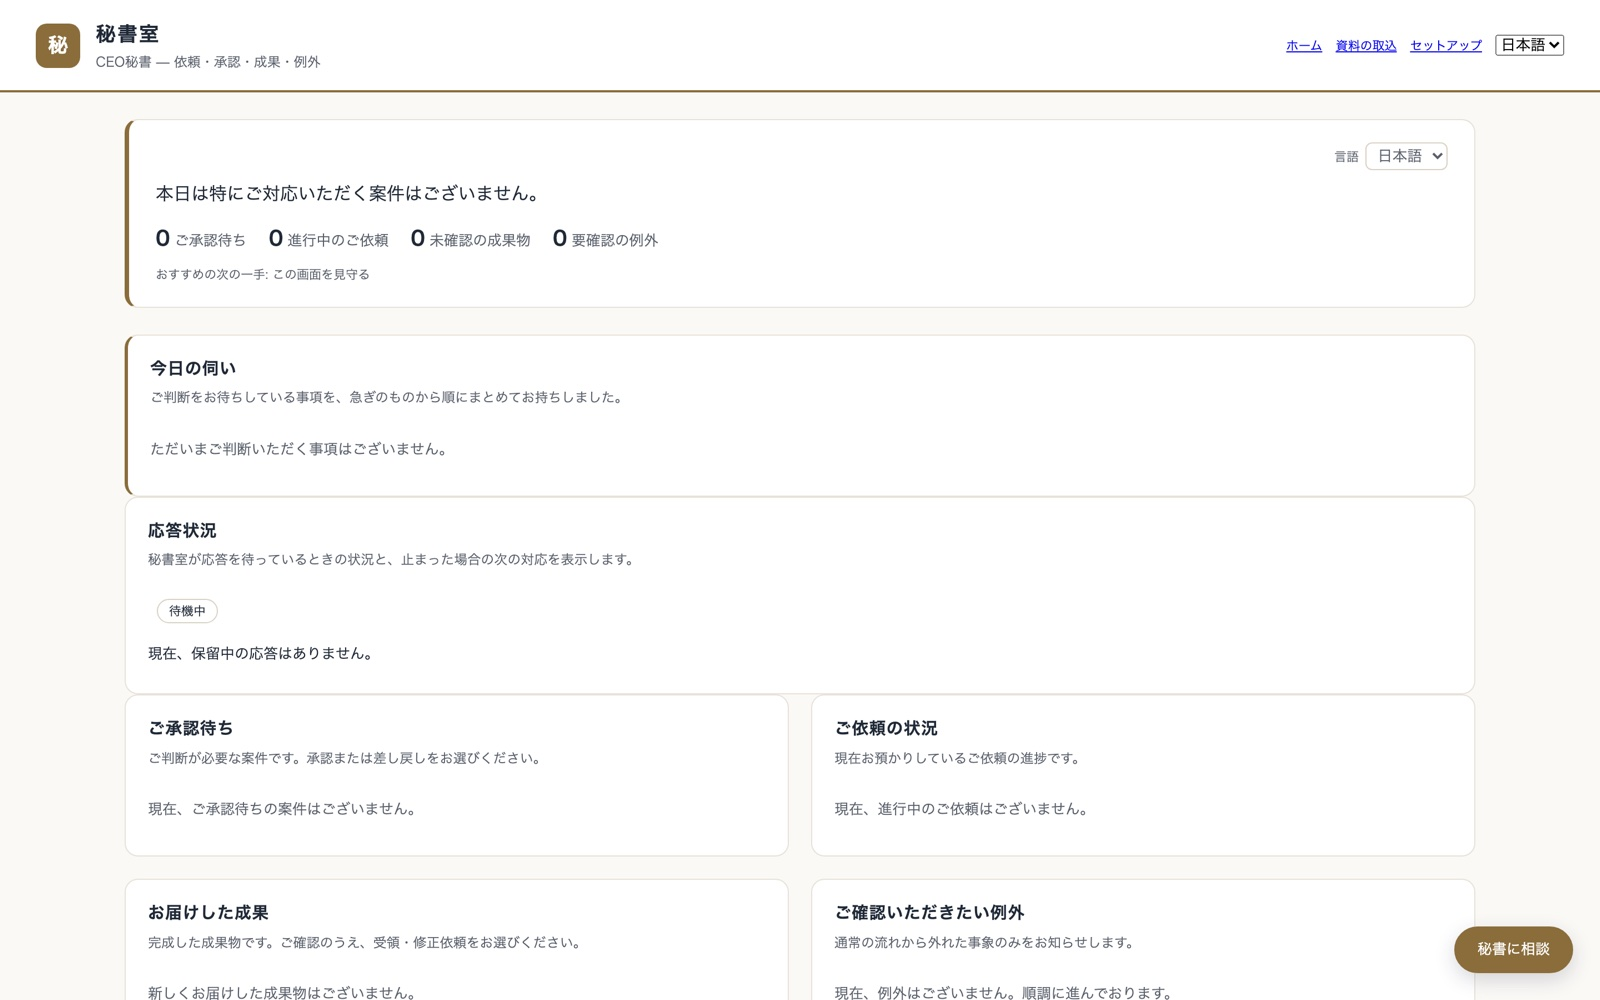
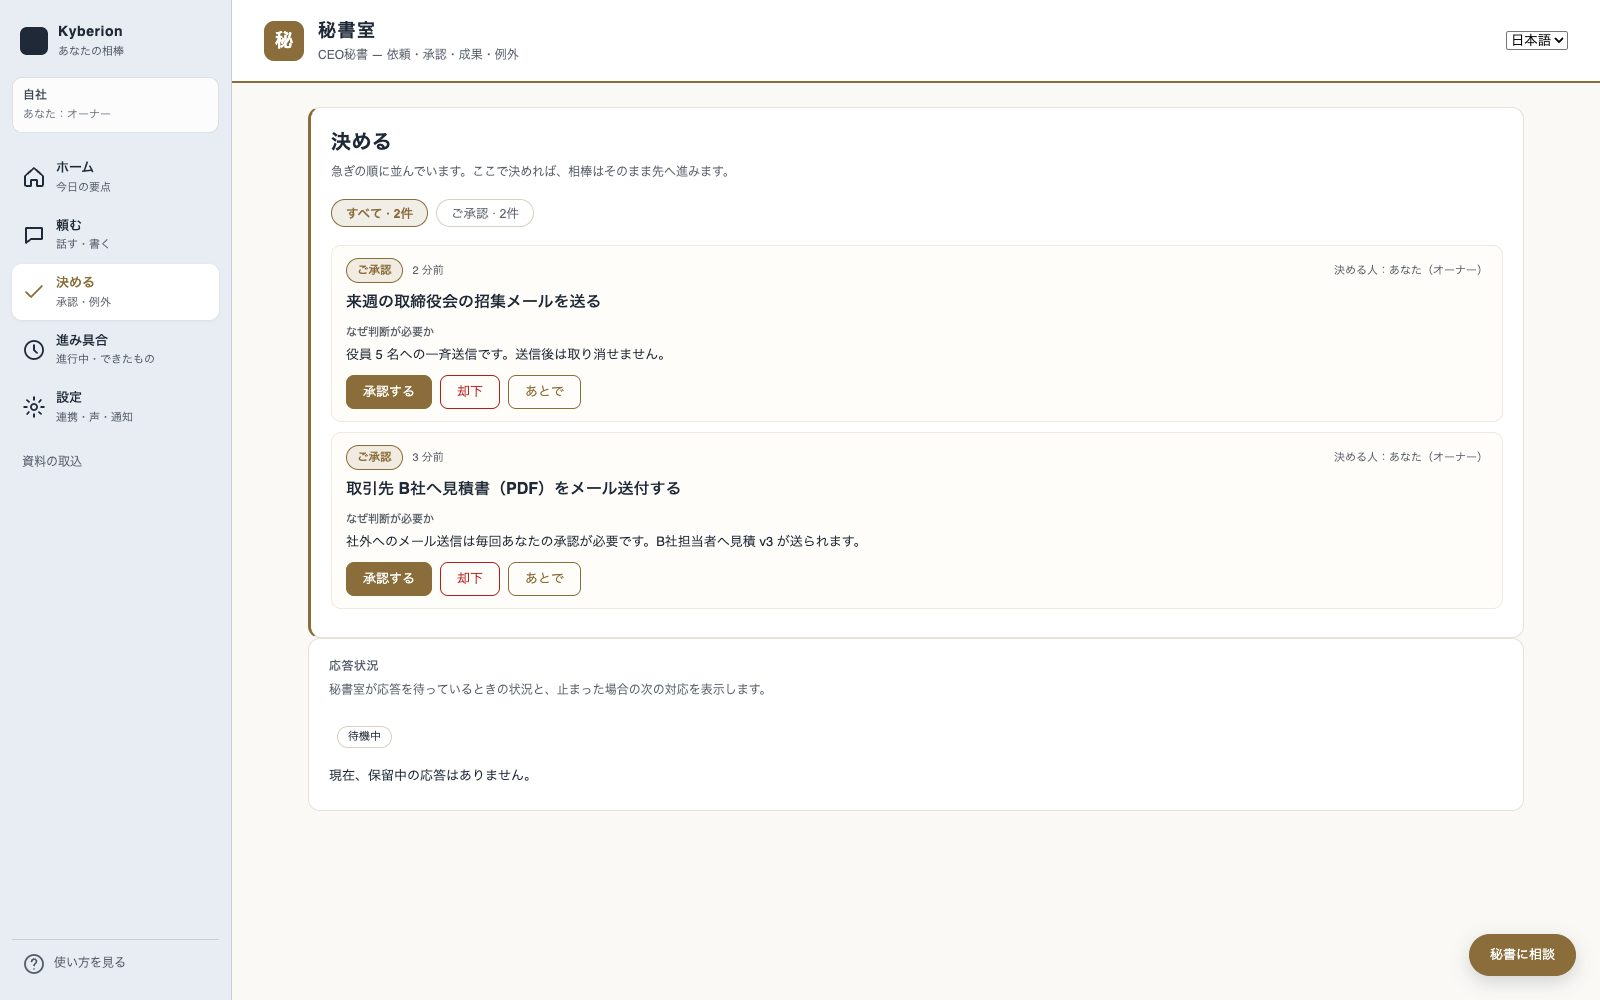
fix(front-desk): human reason text, tenant chips by display name, refreshed gallery (FD-09)
The concierge approval summary now falls back to the request summary before
the title, and a why column that only repeats the title is left out. Home
tenant chips show the tenant's display name and only when the viewer can
switch tenants; the home reads honor the stored tenant selection like the
rail. README gallery images for Concierge (決める) and Presence Studio (ホーム)
regenerated at 1600×1000 with captions describing the front desk.

Claude-Session: https://claude.ai/code/session_01GgFozianZ38jAPMFMNxwLy

diff --git a/presence/displays/presence-studio/static/home.js b/presence/displays/presence-studio/static/home.js
@@ -187,7 +187,18 @@
     memory: 'tag_memory',
   };
 
-  function renderDecideCard(nav, vocab, home) {
+  // Tenant chips only make sense when the viewer can look at more than one
+  // tenant, and they show the tenant's display name, never its slug.
+  function tenantChipFor(me, slug) {
+    if (!me || !me.ok || !me.can_switch || !slug) return '';
+    var name = slug;
+    (me.tenants || []).forEach(function (tenant) {
+      if (tenant.tenant_slug === slug && tenant.display_name) name = tenant.display_name;
+    });
+    return '<span class="home-tenant-chip">' + escapeHtml(name) + '</span>';
+  }
+
+  function renderDecideCard(nav, vocab, home, me) {
     var titleEl = document.getElementById('decide-title');
     if (titleEl) titleEl.textContent = vt(vocab, 'home_decide_title');
 
@@ -223,9 +234,7 @@
       .map(function (item) {
         var tagKey = DECIDE_TAG_KEY[item.kind] || 'tag_approval';
         var tagLabel = vt(vocab, tagKey) || item.kind;
-        var tenantChip = item.tenant_slug
-          ? '<span class="home-tenant-chip">' + escapeHtml(item.tenant_slug) + '</span>'
-          : '';
+        var tenantChip = tenantChipFor(me, item.tenant_slug);
         return (
           '<li><a class="home-row" href="' +
           escapeHtml(href) +
@@ -355,9 +364,18 @@
     }
   }
 
-  function render(nav, vocab, home, locale) {
+  function storedTenantQuery() {
+    try {
+      var slug = window.localStorage.getItem('front-desk.tenant');
+      return slug ? '?tenant=' + encodeURIComponent(slug) : '';
+    } catch (err) {
+      return '';
+    }
+  }
+
+  function render(nav, vocab, home, locale, me) {
     renderBriefing(vocab, home, locale);
-    renderDecideCard(nav, vocab, home);
+    renderDecideCard(nav, vocab, home, me);
     renderProgressCard(vocab, home);
   }
 
@@ -374,9 +392,15 @@
         var vocab = vocabResponse.texts || {};
         renderAskShell(vocab);
         wireAskBox(vocab);
-        return fetchJson('/api/home').then(function (home) {
+        var tenantQuery = storedTenantQuery();
+        return Promise.all([
+          fetchJson('/api/home' + tenantQuery),
+          fetchJson('/api/me' + tenantQuery),
+        ]).then(function (pair2) {
+          var home = pair2[0];
+          var me = pair2[1];
           if (home && home.ok && nav && nav.ok) {
-            render(nav, vocab, home, locale);
+            render(nav, vocab, home, locale, me);
           }
         });
       })

diff --git a/libs/core/ceo-surface-summary.ts b/libs/core/ceo-surface-summary.ts
@@ -193,7 +193,9 @@ function toApprovalItem(
     channel: String(record.channel || 'chronos'),
     storage_channel: String(record.storageChannel || record.channel || 'chronos'),
     title: String(record.title || record.sourceText || '承認のご依頼'),
-    reason: String(record.justification?.summary || record.sourceText || record.title || ''),
+    reason: String(
+      record.justification?.summary || record.summary || record.sourceText || record.title || ''
+    ),
     requested_at: String(record.requestedAt || ''),
     expires_at: record.expiresAt ? String(record.expiresAt) : undefined,
     mission_id: record.requestedByContext?.missionId

diff --git a/presence/displays/concierge/src/lib/decide-view.ts b/presence/displays/concierge/src/lib/decide-view.ts
@@ -62,7 +62,12 @@ export function deriveCardFields(entry: DecideQueueEntry): DecideCardFields {
   switch (entry.kind) {
     case 'approval':
       return {
-        why: entry.item.reason || undefined,
+        // A reason that merely repeats the title says nothing — leave the
+        // column out rather than showing the same words twice.
+        why:
+          entry.item.reason && entry.item.reason.trim() !== entry.item.title.trim()
+            ? entry.item.reason
+            : undefined,
         effectLabelKey: 'decide_effect_approval',
       };
     case 'hygiene':

diff --git a/README.md b/README.md
@@ -168,13 +168,13 @@ For the catalog of actuators: [`CAPABILITIES_GUIDE.md`](./CAPABILITIES_GUIDE.md)
 
 ## Surfaces — one role per screen
 
-Each surface answers one question and shows its role in the header. Full role map, ports and access rules: [`docs/SURFACES.md`](./docs/SURFACES.md).
+Each surface answers one question and shows its role in the header. The two human-facing surfaces (Concierge and Presence Studio) share one five-item rail — ホーム / 頼む / 決める / 進み具合 / 設定 — so they read as a single front desk. Full role map, ports and access rules: [`docs/SURFACES.md`](./docs/SURFACES.md).
 
 <table>
   <tr>
     <td align="center" width="33%"><a href="./presence/displays/chronos-mirror-v2/"><img src="./docs/assets/surfaces/chronos.jpg" alt="Chronos Mirror — control tower home with tenant scope, view switcher, next action and per-mission agent status" width="100%" /></a><br /><strong>Chronos Mirror</strong> · <code>:3000</code><br /><sub>Control tower: what is the system doing, where should I intervene?</sub></td>
-    <td align="center" width="33%"><a href="./presence/displays/concierge/"><img src="./docs/assets/surfaces/concierge.jpg" alt="Concierge — CEO secretary view with approvals, requests, deliverables and exceptions" width="100%" /></a><br /><strong>Concierge</strong> · <code>:3050</code><br /><sub>CEO secretary: what do I need to decide right now?</sub></td>
-    <td align="center" width="33%"><a href="./presence/displays/presence-studio/"><img src="./docs/assets/surfaces/presence-studio.jpg" alt="Presence Studio — companion workbench with minutes, email, browser, approval and task cards plus voice controls" width="100%" /></a><br /><strong>Presence Studio</strong> · <code>:3031</code><br /><sub>Companion: what are we working on together, by voice or text?</sub></td>
+    <td align="center" width="33%"><a href="./presence/displays/concierge/"><img src="./docs/assets/surfaces/concierge.jpg" alt="Concierge — the 決める (Decide) page: one urgency-ordered queue of approvals, exceptions and stalled requests, each card with why it needs you and three actions" width="100%" /></a><br /><strong>Concierge</strong> · <code>:3050</code><br /><sub>CEO secretary: what do I need to decide right now? (決める · 設定)</sub></td>
+    <td align="center" width="33%"><a href="./presence/displays/presence-studio/"><img src="./docs/assets/surfaces/presence-studio.jpg" alt="Presence Studio — the ホーム (Home) page: today's briefing, the ask box with request chips, what needs your decision and progress, behind the shared five-item rail" width="100%" /></a><br /><strong>Presence Studio</strong> · <code>:3031</code><br /><sub>Companion: what are we working on together, by voice or text? (ホーム · 頼む · 進み具合)</sub></td>
   </tr>
   <tr>
     <td align="center"><a href="./presence/displays/operator-surface/"><img src="./docs/assets/surfaces/operator-surface.jpg" alt="Operator Surface — read-only audit monitor listing missions with status, tier, tenant, persona and checkpoints" width="100%" /></a><br /><strong>Operator Surface</strong> · <code>:3331</code><br /><sub>Audit monitor, read-only: what happened, with evidence?</sub></td>
